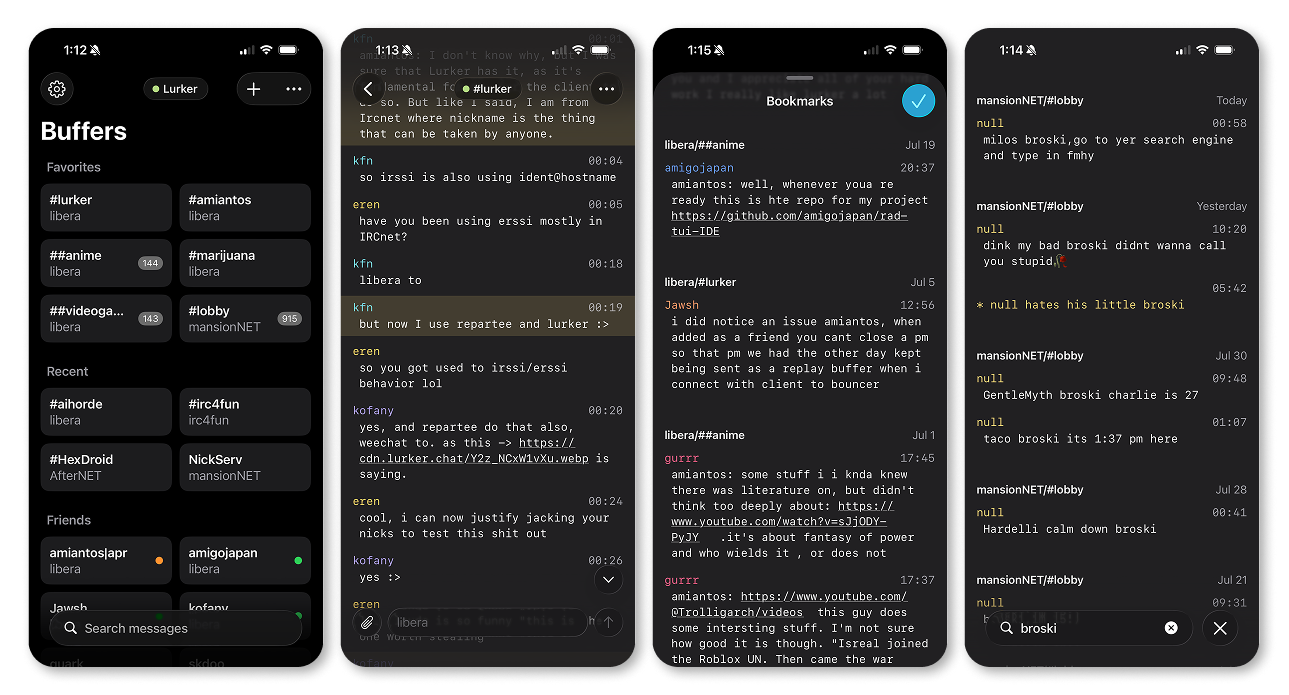
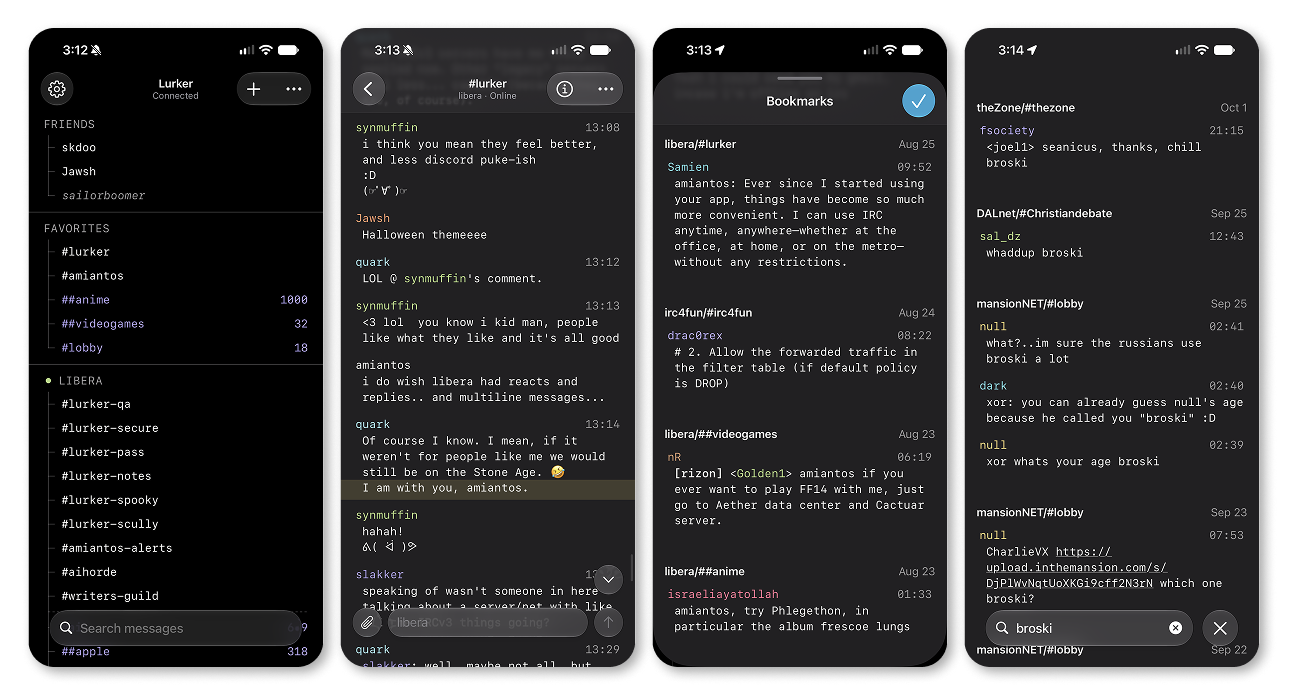
Bring in the README's new screenshots and wording
New desktop and iOS screenshots, plus the Android ones as a third figure.
Copy follows the README: "delightful IRC bouncer and client", the updated
feature list, both native apps out of beta, and the run-without-Docker note.

diff --git a/index.html b/index.html
@@ -3,10 +3,10 @@
 <head>
 <meta charset="utf-8" />
 <meta name="viewport" content="width=device-width, initial-scale=1" />
-<title>Lurker — a beautiful IRC client</title>
-<meta name="description" content="Lurker is a beautiful, always-on IRC client with a retro aesthetic and modern conveniences. Self-host it free, or let us run it for you at lurker.chat." />
+<title>Lurker — a delightful IRC bouncer and client</title>
+<meta name="description" content="Lurker is a delightful, always-on IRC bouncer and client with a retro aesthetic and modern conveniences. Self-host it free, or let us run it for you at lurker.chat." />
 <meta property="og:title" content="Lurker" />
-<meta property="og:description" content="A beautiful, always-on IRC client with a retro aesthetic and modern conveniences." />
+<meta property="og:description" content="A delightful, always-on IRC bouncer and client with a retro aesthetic and modern conveniences." />
 <meta property="og:type" content="website" />
 <meta property="og:url" content="https://lurker.chat/" />
 <meta property="og:image" content="https://lurker.chat/img/screenshot.png" />
@@ -23,15 +23,18 @@
 
   <section class="hero">
     <h1>Lurker</h1>
-    <p class="lede">A beautiful, always-on IRC client with a retro aesthetic and modern conveniences.</p>
+    <p class="lede">A delightful, always-on IRC bouncer and client with a retro aesthetic and modern conveniences.</p>
   </section>
 
   <section class="shots">
     <figure class="shot">
-      <a href="#fig1" aria-label="Enlarge the Lurker screenshot"><img src="/img/screenshot.png" alt="The Lurker web client: a network and channel list, an active conversation, and a member list in a dark retro terminal interface." width="1649" height="1111" /></a>
+      <a href="#fig1" aria-label="Enlarge the Lurker screenshot"><img src="/img/screenshot.png" alt="The Lurker web client: a network and channel list, an active conversation, and a member list in a dark retro terminal interface." width="1675" height="1103" /></a>
     </figure>
     <figure class="shot">
       <a href="#fig2" aria-label="Enlarge the Lurker for iOS screenshots"><img src="/img/ios-screenshot.png" alt="Lurker for iOS: the buffer list, a channel conversation, bookmarks, and message search." width="1289" height="695" loading="lazy" /></a>
+    </figure>
+    <figure class="shot">
+      <a href="#fig3" aria-label="Enlarge the Lurker for Android screenshots"><img src="/img/android-screenshot.png" alt="Lurker for Android: the buffer list, two channel conversations with replies and reactions, and settings." width="1289" height="695" loading="lazy" /></a>
     </figure>
   </section>
 
@@ -39,19 +42,19 @@
     <h2>Features</h2>
     <ul>
       <li><b>Always-on and multi-user.</b> Each invited user connects to their own set of IRC networks, and Lurker stays connected when they're away. Admins can restrict which networks users can connect to, and make channel recommendations for newcomers.</li>
-      <li><b>Fully working search.</b> Search your message history, filter by nick, channel, or network; and jump to any message instantly, no matter how old it is.</li>
-      <li><b>Modern conveniences.</b> Peer presence, automatic nick regain, join/part summarization, tab nickname completion, message drafts, saved messages, user notes, inline link and media previews, and more.</li>
-      <li><b>Image uploads.</b> Paste an image into the input box, and Lurker optimizes it, sanitizes it, and uploads it to local storage, S3, Zipline, Chibisafe, or external services like x0.at or catbox.moe.</li>
+      <li><b>Full search.</b> Search your message history, filter by nick, channel, or network; and jump to any message instantly, no matter how old it is.</li>
+      <li><b>Modern conveniences.</b> Peer presence, automatic nick regain, join/part summarization, smart nickname completion, cross-client message drafts, bookmarks, user notes, a powerful highlight &amp; ignore system, reactions, replies, inline link and media previews, and more.</li>
+      <li><b>Image uploads.</b> Paste an image into the input box, and Lurker optimizes it, anonymizes it, and uploads it to local storage, S3, Zipline, Chibisafe, or external services like x0.at or catbox.moe.</li>
       <li><b>Open source.</b> Unlike some other cloud-hosted IRC clients, Lurker is fully open source and always will be. Lurker is yours to host, modify, and share with whoever you want.</li>
       <li><b>Customizable UI.</b> The beautiful retro terminal-style PWA interface has 40+ settings to customize it how you want.</li>
-      <li><b>Native apps.</b> Lurker has official native apps <a href="https://github.com/amiantos/lurker-ios">for iOS</a> (in beta) and Android (coming soon). There's also third party clients like <a href="https://github.com/JawshTheDark/lurker-android-upstream">Spooky</a> (Android) and <a href="https://github.com/JawshTheDark/scully">Scully</a> (PC).</li>
-      <li><b>Built-in soju-compatible bouncer.</b> Don't want to use the Lurker clients? Then don't. Lurker has a ZNC and soju compatible bouncer built in, complete with <code>soju.im/bouncer-networks</code> support, so you can use any client you want.</li>
+      <li><b>Native apps.</b> Lurker has official native apps <a href="https://github.com/amiantos/lurker-ios">for iOS</a> and <a href="https://github.com/amiantos/lurker-android">for Android</a>. There are also third-party clients such as <a href="https://github.com/JawshTheDark/lurker-android-upstream">Spooky</a> (Android), <a href="https://luir.org">luir</a> (TUI), and <a href="https://github.com/JawshTheDark/scully">Scully</a> (PC), which bring their own flavor to Lurker.</li>
+      <li><b>Built-in bouncer.</b> Don't want to use the Lurker clients? Then don't. Lurker has a best-in-class IRC bouncer built in, complete with <code>soju.im/bouncer-networks</code>, <code>soju.im/FILEHOST</code> support and more, so you can use any IRC client you want, like <a href="https://github.com/rekkals/clircs">clircs</a>, <a href="https://github.com/squidowl/halloy">Halloy</a>, <a href="https://codeberg.org/emersion/goguma">Goguma</a>, <a href="https://github.com/boxlabss/hexdroid">HexDroid</a> and many others.</li>
     </ul>
   </section>
 
   <section class="doors" id="get-lurker">
     <h2>Get Lurker For Free</h2>
-    <p class="doors-lede">Docker is the officially supported way to run Lurker. Get started by downloading the <code>docker-compose.yml</code> file and running the container.</p>
+    <p class="doors-lede">Docker is the officially supported way to run Lurker (you can <a href="https://github.com/amiantos/lurker/blob/main/docs/MIGRATION_ENGINE.md#running-without-docker-running-without-docker">run it without Docker</a>, if you must). Get started by downloading the <code>docker-compose.yml</code> file and running the container.</p>
     <pre class="cmd"><code>curl -O https://raw.githubusercontent.com/amiantos/lurker/main/docker-compose.yml
 docker compose up -d
 open <a href="http://localhost:8015/">http://localhost:8015/</a></code></pre>
@@ -98,6 +101,7 @@ open <a href="http://localhost:8015/">http://localhost:8015/</a></code></pre>
 
 <a href="#_" id="fig1" class="lightbox" aria-label="Close enlarged screenshot"><img src="/img/screenshot.png" alt="" /></a>
 <a href="#_" id="fig2" class="lightbox" aria-label="Close enlarged screenshot"><img src="/img/ios-screenshot.png" alt="" /></a>
+<a href="#_" id="fig3" class="lightbox" aria-label="Close enlarged screenshot"><img src="/img/android-screenshot.png" alt="" /></a>
 
 <!-- 100% privacy-first analytics -->
 <script async src="https://scripts.simpleanalyticscdn.com/latest.js"></script>

diff --git a/faq.html b/faq.html
@@ -47,8 +47,8 @@
   <p>Yes — it's a fast web app, installable as a PWA, with support for web push notifications.</p>
 
   <h3>Are there native mobile apps?</h3>
-  <p>Yes. <a href="https://github.com/amiantos/lurker-ios">Lurker for iOS</a> is in beta, and an
-    Android app is coming. There are also third-party clients, like
+  <p>Yes. There's <a href="https://github.com/amiantos/lurker-ios">Lurker for iOS</a> and
+    <a href="https://github.com/amiantos/lurker-android">Lurker for Android</a>. There are also third-party clients, like
     <a href="https://github.com/JawshTheDark/lurker-android-upstream">Spooky</a> for Android.</p>
 
   <h2><span class="s">B</span>Account &amp; privacy</h2>
